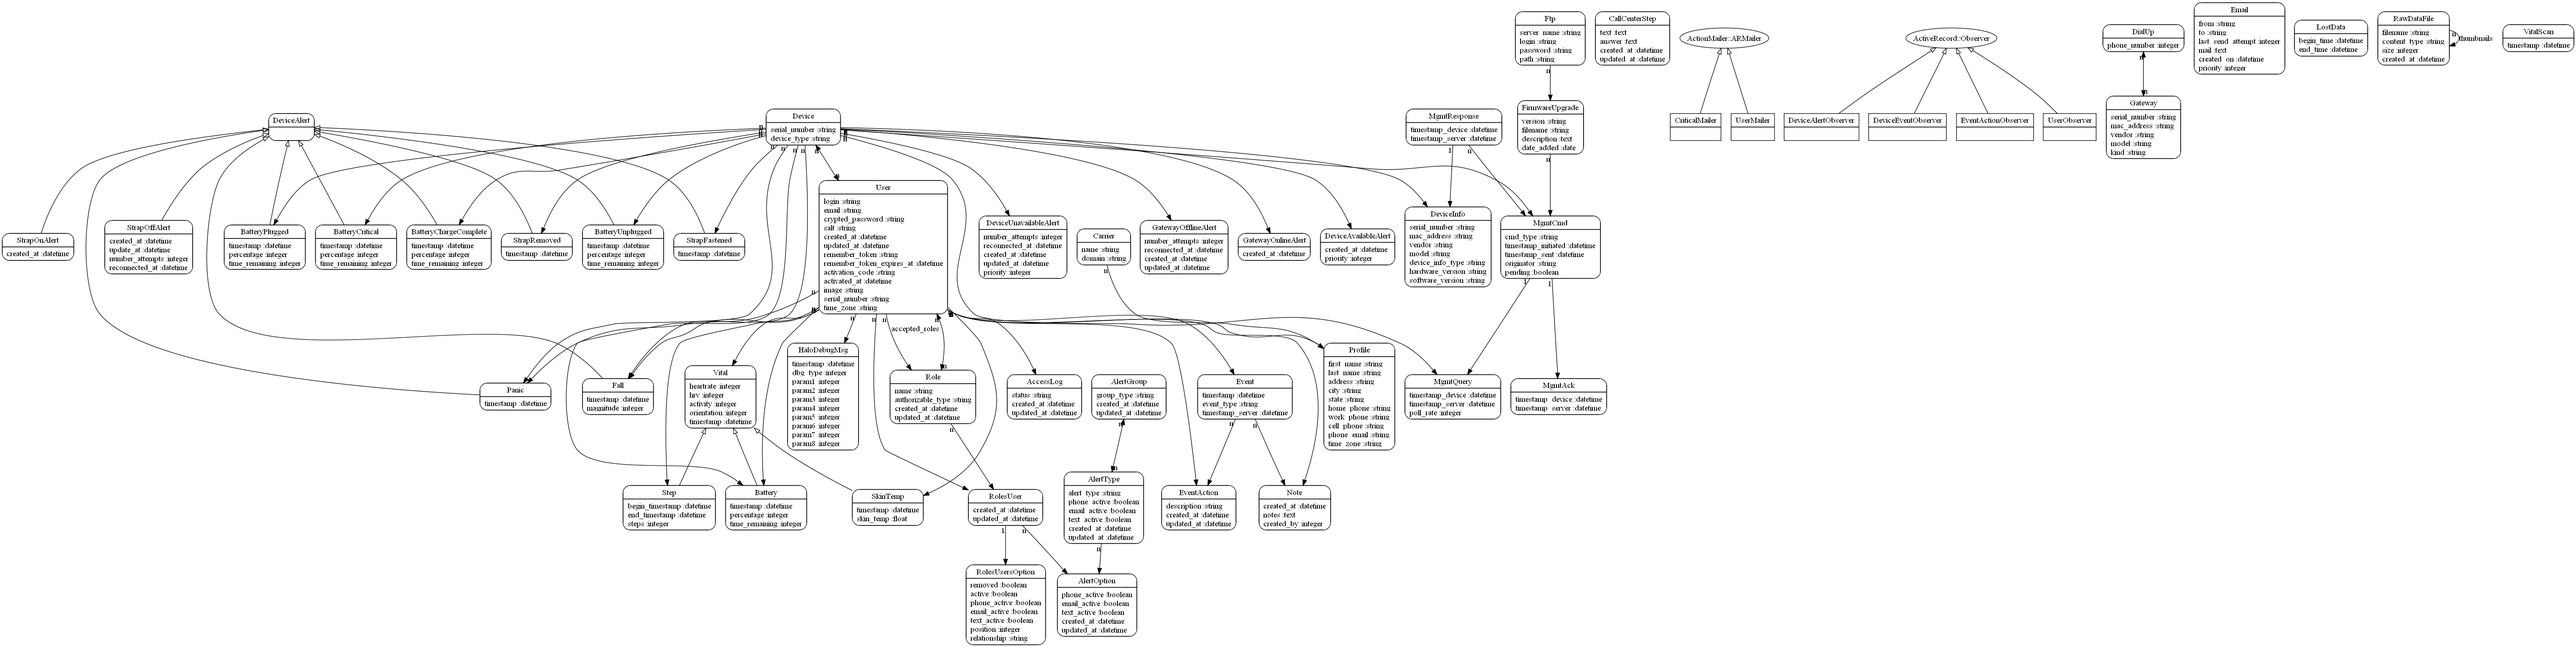
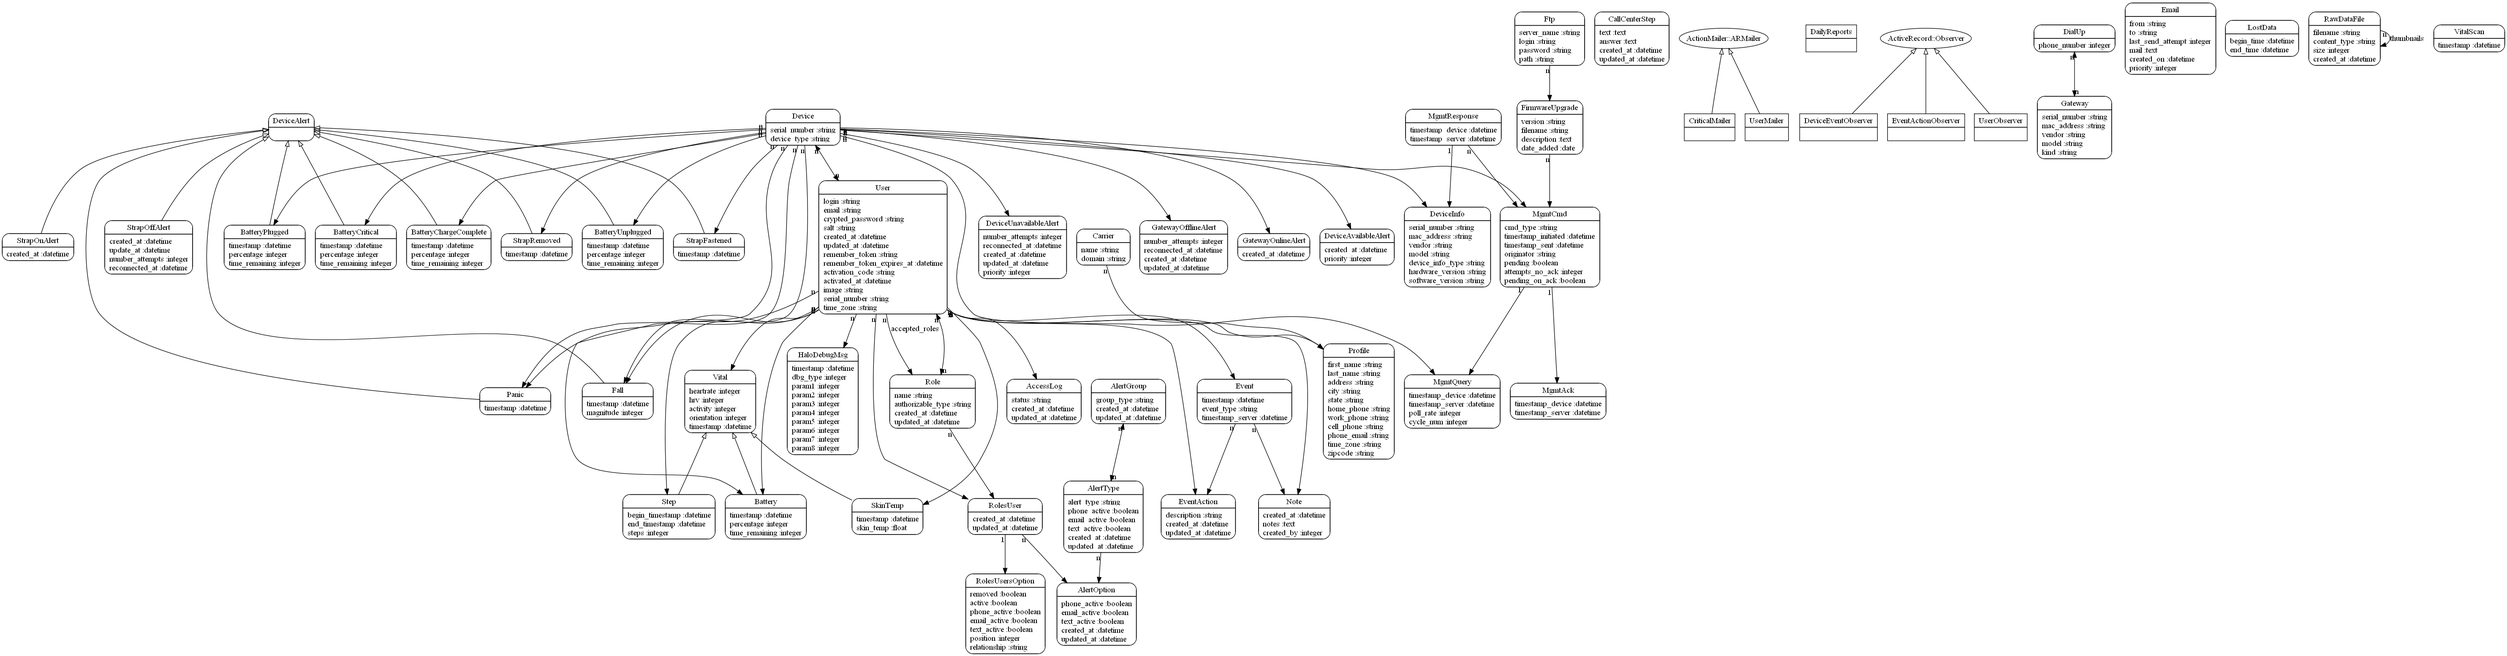
refs #366 Add "creator" field to track mgmt commands
git-svn-id: http://svn2.assembla.com/svn/halotrac/trunk@1124 04a73145-ec33-0410-b10b-c8dba00f0e28

diff --git a/app/controllers/mgmt_cmds_controller.rb b/app/controllers/mgmt_cmds_controller.rb
@@ -24,6 +24,7 @@ class MgmtCmdsController < RestfulAuthController
       if params[:originator] == 'server'
         cmd.pending = true
         cmd.pending_on_ack = true
+        cmd.creator = current_user
       end
     end
     
@@ -68,7 +69,7 @@ class MgmtCmdsController < RestfulAuthController
   
   def create_many
     @success = true
-    @message = 'Command created!'
+    @message = "Command created by #{current_user.id} #{current_user.name}"
     @pending_cmds = []
     
     request = params[:management_cmd_device] #from the issue commands form
@@ -85,6 +86,7 @@ class MgmtCmdsController < RestfulAuthController
         cmd[:originator] = 'server'
         cmd[:attempts_no_ack] = 0
         cmd[:pending_on_ack] = true
+        cmd[:created_by] = current_user.id if current_user
       
         if /-/.match(request[:ids])     
           create_cmds_for_range_of_devices(request[:ids], cmd)

diff --git a/app/controllers/mgmt_queries_controller.rb b/app/controllers/mgmt_queries_controller.rb
@@ -31,6 +31,7 @@ class MgmtQueriesController < RestfulAuthController
           new_cmd = MgmtCmd.new
           new_cmd.pending_on_ack = true
           new_cmd.pending = true
+          new_cmd.creator = pending.creator
           new_cmd.attempts_no_ack = 0;
           new_cmd.device_id = pending.device_id
           new_cmd.user_id = pending.user_id

diff --git a/app/models/mgmt_cmd.rb b/app/models/mgmt_cmd.rb
@@ -4,7 +4,7 @@ class MgmtCmd < ActiveRecord::Base
   has_one :mgmt_query
   
   belongs_to :device
-  
+  belongs_to :creator, :class_name => "User", :foreign_key => "created_by"
   belongs_to :cmd, :polymorphic => true
   
   def self.new_initialize(random=false)

diff --git a/app/models/user.rb b/app/models/user.rb
@@ -15,6 +15,7 @@ class User < ActiveRecord::Base
   has_many :steps
   has_many :vitals
   has_many :halo_debug_msgs
+  has_many :mgmt_cmds
   #belongs_to :role
   #has_one :roles_user
   #has_one :roles_users_option

diff --git a/db/migrate/20080822231715_add_user_id_to_mgmt_cmd.rb b/db/migrate/20080822231715_add_user_id_to_mgmt_cmd.rb
@@ -1,0 +1,9 @@
+class AddUserIdToMgmtCmd < ActiveRecord::Migration
+  def self.up
+    add_column :mgmt_cmds, :created_by, :integer
+  end
+
+  def self.down
+    remove_column :mgmt_cmds, :created_by
+  end
+end
